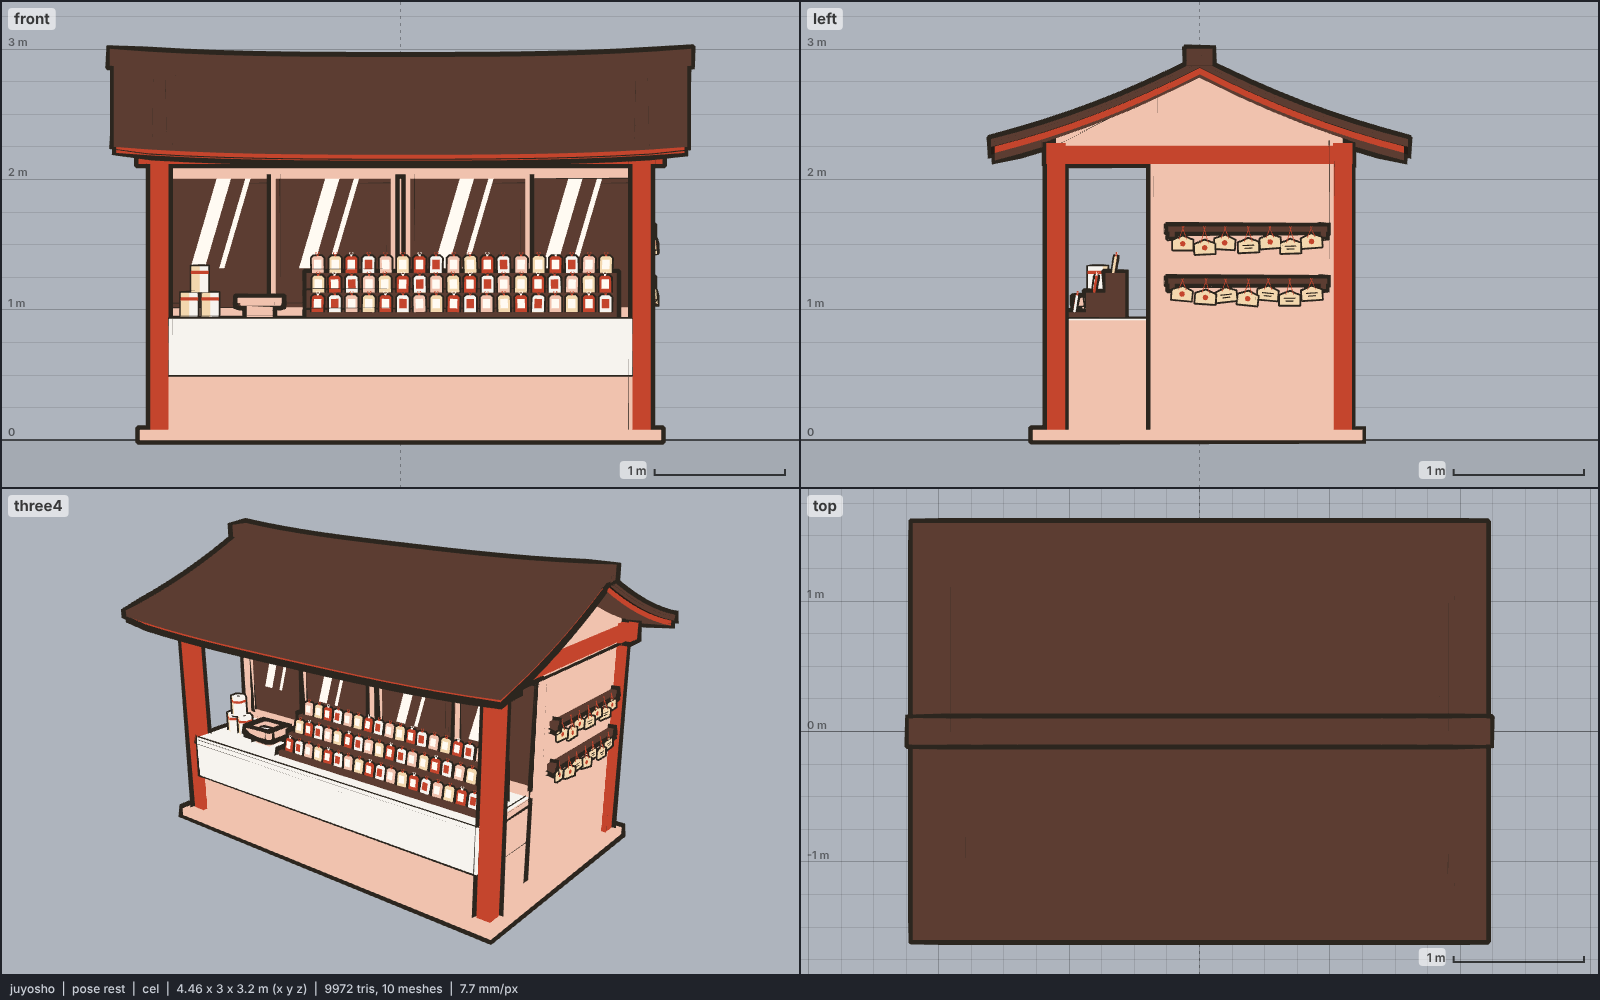
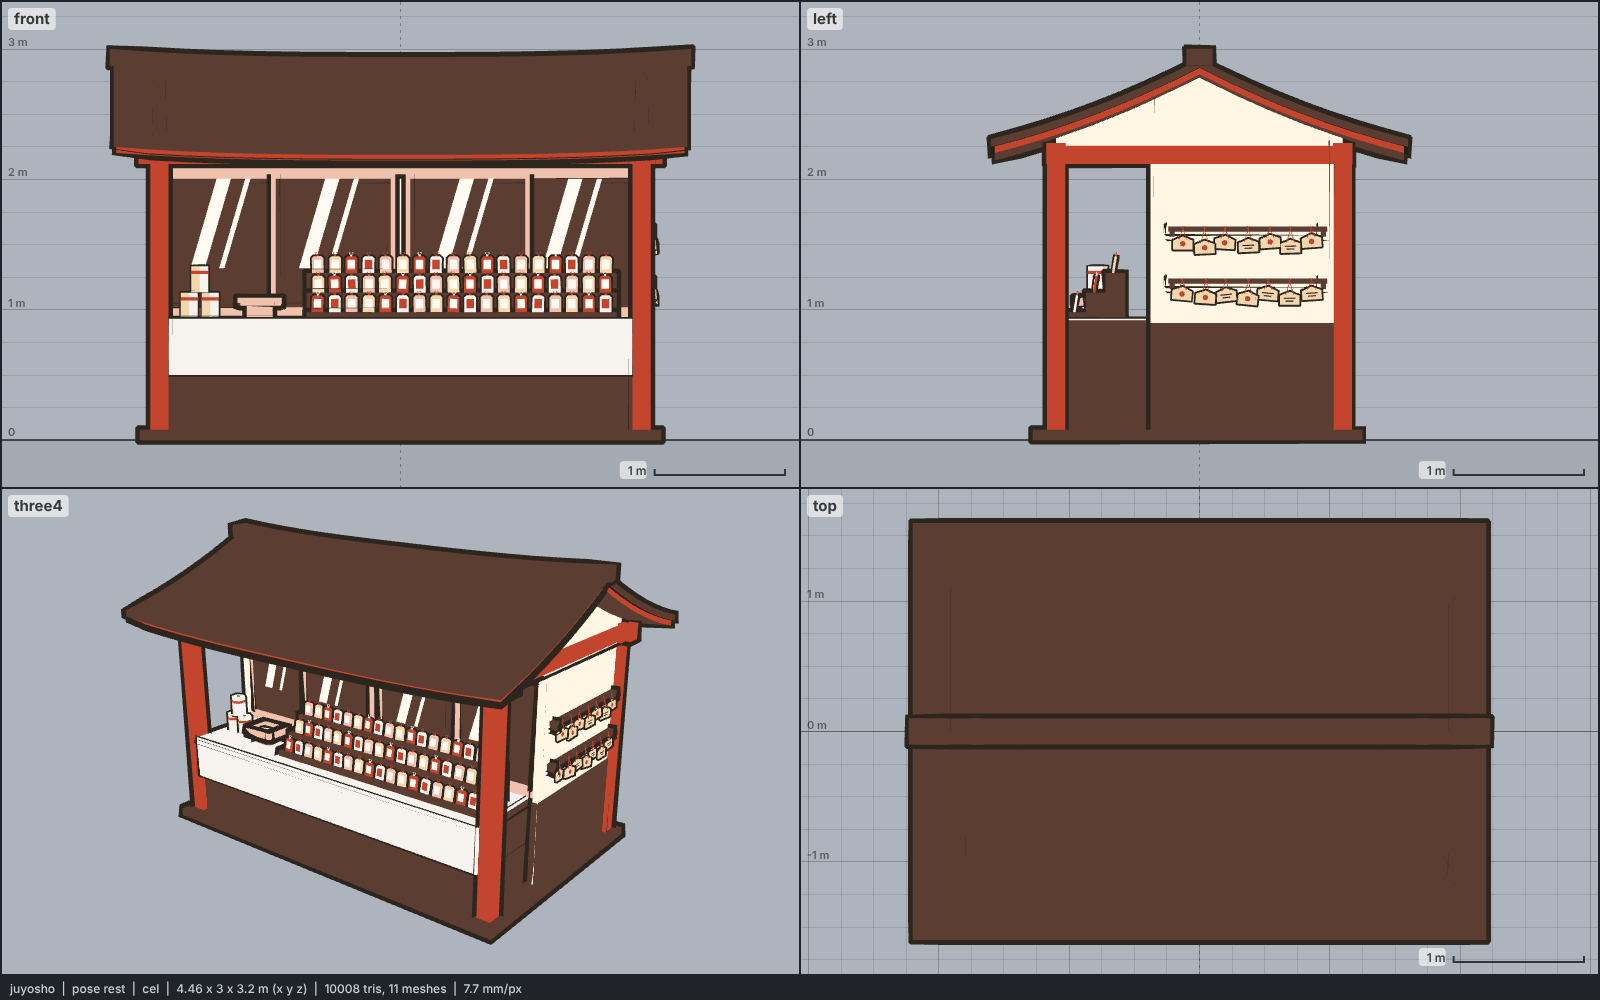
models: juyosho, plaster walls over dark wood
The side and back walls read salmon pink. They are now white plaster
(moon / sky, as the sento) over a dark wood wainscot, and the deck and
counter skirt are dark wood (iris / hair), so the vermilion posts, the
white counter cloth and the charms stand out. Render updated.

Claude-Session: https://claude.ai/code/session_01RarBCdt4E1fNHHaUKaW5GL

Changed region(s): [[0.6562, 0.062, 0.8438, 0.465], [0.0938, 0.62, 0.4062, 1.0], [0.0938, 0.372, 0.4062, 0.465]]

diff --git a/models/juyosho.js b/models/juyosho.js
@@ -8,13 +8,14 @@
 //   ROOF     the shrine's gable: ridge along x, both slopes sag below their chord (y = ridge - drop (t + 0.35 t (1 - t)))
 //            and the whole roof sweeps up toward both gables (y += 0.06 (|x| / 2.2)^3), as the shrine's does. Each
 //            slope is a dark bark sheet over a vermilion rafter sheet inset 2-3 cm, so every eave shows a dark band over
-//            a red band. A dark ridge cap rides the same sweep; pale wood gable boards close both ends.
-//   FRAME    four square vermilion posts on a low wood deck, head beams front and back, side beams.
-//   WALLS    wood board back and side walls; the front is open between the posts. Set back behind the counter at
+//            a red band. A dark ridge cap rides the same sweep; plaster gable boards close both ends.
+//   FRAME    four square vermilion posts on a low dark wood deck, head beams front and back, side beams.
+//   WALLS    white plaster back and side walls over a dark wood wainscot (koshiita, to counter height), as the sento;
+//            the front is open between the posts. Set back behind the counter at
 //            z = 0.3, the sliding glass window: wood frame rails and stiles, four dark panes in two tracks (the dark
 //            interior seen through the glass, so the charms pop in front of it), the middle pair slid apart to leave
 //            the selling gap, two pale glint stripes on each pane, and white plaster above to the roof.
-//   COUNTER  the identity stage: a long wood counter between the front posts, under a white cloth that drapes over its
+//   COUNTER  the identity stage: a long dark wood counter between the front posts, under a white cloth that drapes over its
 //            front and ends. On it, a three-tier dark display stand carries `count` omamori per tier.
 //   OMAMORI  the identity cue. Small upright pouches with clipped shoulders, leaning back a little, each with a pale
 //            brocade patch on its face and a knot (a bead and two loops) on top, in a deterministic colour pattern
@@ -30,9 +31,11 @@
 //   omamori per tier.
 // Colours (noon), base / shade:
 //   vermilion (posts, beams, rafter sheets)                     accent #c4452d / iris #5c3d32, threshold 0.1 (as the torii)
-//   roof (bark, ridge cap, glass panes, stand, ema rails)        iris #5c3d32 / hair #241c16, threshold 0.1 (as the shrine)
-//   wood (deck, walls, counter, window frame, gable boards, tray) skin #f0c2ae / iris #5c3d32 (as the shrine's wood)
-//   cloth (counter cloth, plaster, white omamori, omikuji boxes, paper)  sclera #f6f3ee / sky #f2d7ae
+//   roof (bark, ridge cap, glass panes, stand, ema rails; dark wood: deck, wainscot, counter)
+//                                                                iris #5c3d32 / hair #241c16, threshold 0.1 (as the shrine)
+//   plaster (walls, gable boards, transom)                       moon #fff6e4 / sky #f2d7ae (as the sento)
+//   wood (window frame, tray)                                    skin #f0c2ae / iris #5c3d32 (as the shrine's wood)
+//   cloth (counter cloth, white omamori, omikuji boxes, paper)   sclera #f6f3ee / sky #f2d7ae
 //   omamori red / pink                                           accent / iris, skin / iris (noon has no blue, green or
 //            purple; the gold charms share the ema material)
 //   glint (brocade patches, glass glints), no ink                practical #fffaf2
@@ -50,6 +53,7 @@ export const meta = {
     roof: "#5c3d32", roofShade: "#241c16",
     wood: "#f0c2ae", woodShade: "#5c3d32",
     cloth: "#f6f3ee", clothShade: "#f2d7ae",
+    plaster: "#fff6e4", plasterShade: "#f2d7ae",
     omRed: "#c4452d", omRedShade: "#5c3d32",
     omPink: "#f0c2ae", omPinkShade: "#5c3d32",
     glint: "#fffaf2",
@@ -147,7 +151,7 @@ export function build(THREE, kit, colors = meta.colors, opts = {}) {
 
   // ---------- deck, posts, beams ----------
   const XP = 1.85, ZP = 1.1, PW = 0.14, YT = 2.28; // post centres, size, top
-  bx("wood", -2.0, 2.0, 0, 0.08, -1.25, 1.28); // deck
+  bx("roof", -2.0, 2.0, 0, 0.08, -1.25, 1.28); // deck
   for (const x of [-XP, XP]) for (const z of [-ZP, ZP]) box("vermilion", x, (0.08 + YT) / 2, z, PW, YT - 0.08, PW);
   for (const z of [-ZP, ZP]) bx("vermilion", -XP - 0.16, XP + 0.16, 2.12, YT, z - 0.075, z + 0.075); // head beams
   for (const x of [-XP, XP]) bx("vermilion", x - 0.065, x + 0.065, 2.12, 2.26, -ZP, ZP); // side beams
@@ -170,18 +174,20 @@ export function build(THREE, kit, colors = meta.colors, opts = {}) {
     const outline = [[ZP, YT - 0.02], [-ZP, YT - 0.02], ...pts];
     // convex outline (the sag keeps it convex enough to fan from its centre); a prism along x
     const A = outline.map(([z, y]) => [x - 0.02, y, z]), B = outline.map(([z, y]) => [x + 0.02, y, z]);
-    prism("wood", A, B);
+    prism("plaster", A, B);
   }
 
   // ---------- walls ----------
   const ZW = 0.3; // window plane
-  bx("wood", -XP + 0.07, XP - 0.07, 0.08, 2.12, -ZP - 0.02, -ZP + 0.03); // back wall
+  bx("plaster", -XP + 0.07, XP - 0.07, 0.08, 2.12, -ZP - 0.02, -ZP + 0.03); // back wall
+  bx("roof", -XP + 0.07, XP - 0.07, 0.08, 0.9, -ZP - 0.035, -ZP + 0.04); // dark wainscot (koshiita)
   for (const s of [1, -1]) {
-    bx("wood", s * XP - 0.025, s * XP + 0.025, 0.08, 2.12, -ZP + 0.07, ZW + 0.075); // side walls behind the window
+    bx("plaster", s * XP - 0.025, s * XP + 0.025, 0.08, 2.12, -ZP + 0.07, ZW + 0.075); // side walls behind the window
+    bx("roof", s * XP - 0.035, s * XP + 0.035, 0.08, 0.9, -ZP + 0.07, ZW + 0.075); // wainscot
   }
   // plaster transom over the window, up into the roof
   const yTr = roofY(0, ZW) - T1 - T2 + 0.01;
-  bx("cloth", -XP + 0.025, XP - 0.025, 2.1, yTr, ZW - 0.03, ZW + 0.01);
+  bx("plaster", -XP + 0.025, XP - 0.025, 2.1, yTr, ZW - 0.03, ZW + 0.01);
   // window: frame rails and stiles (roof), four panes in two tracks, glints
   const YW0 = 0.935, YW1 = 2.1, WX = XP - 0.025;
   bx("wood", -WX, WX, YW0, YW0 + 0.05, ZW - 0.02, ZW + 0.07); // sill rail
@@ -206,8 +212,8 @@ export function build(THREE, kit, colors = meta.colors, opts = {}) {
 
   // ---------- counter and cloth ----------
   const CX = XP - PW / 2, YC = 0.9, ZF = 1.12; // counter half length, top, front face
-  bx("wood", -CX, CX, 0.08, YC, ZW, ZF); // counter body
-  bx("wood", -CX - 0.0, CX, YC - 0.02, YC + 0.02, ZW - 0.02, ZF + 0.04); // counter top board (lip)
+  bx("roof", -CX, CX, 0.08, YC, ZW, ZF); // counter body (dark wood skirt under the cloth)
+  bx("roof", -CX, CX, YC - 0.02, YC + 0.02, ZW - 0.02, ZF + 0.04); // counter top board (lip)
   const YCl = YC + 0.02; // cloth lies on the board
   bx("cloth", -CX + 0.01, CX - 0.01, YCl, YCl + 0.012, ZW + 0.06, ZF + 0.06); // cloth top
   bx("cloth", -CX + 0.01, CX - 0.01, YCl - 0.42, YCl + 0.012, ZF + 0.05, ZF + 0.065); // front drape
@@ -298,6 +304,7 @@ export function build(THREE, kit, colors = meta.colors, opts = {}) {
     roof: [c.roof, c.roofShade, 0.1, true, 5],
     wood: [c.wood, c.woodShade, 0.1, true, 5],
     cloth: [c.cloth, c.clothShade, 0.1, true, 2],
+    plaster: [c.plaster, c.plasterShade, 0.1, true, 5],
     omRed: [c.omRed, c.omRedShade, 0.1, true, 2],
     omPink: [c.omPink, c.omPinkShade, 0.1, true, 2],
     glint: [c.glint, c.glint, 0.1, false, 0],
